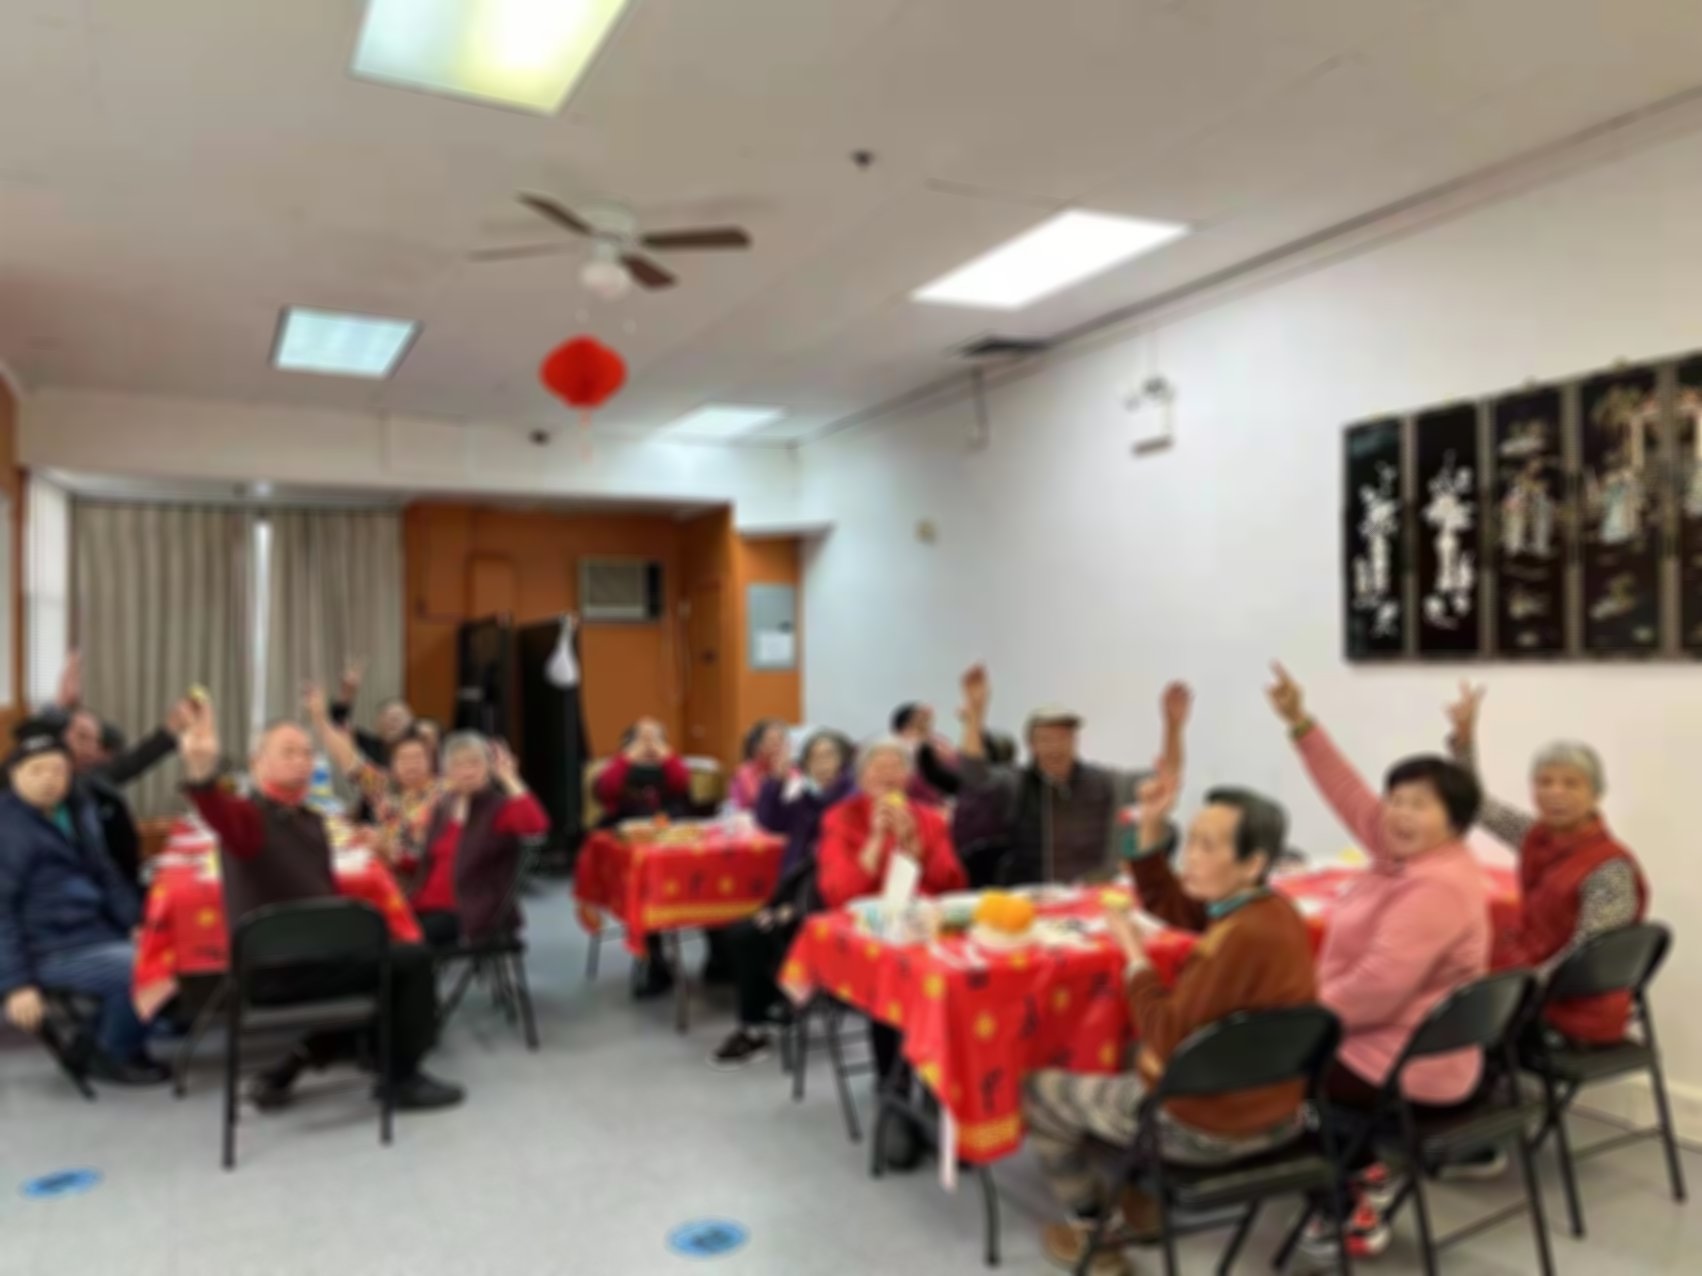
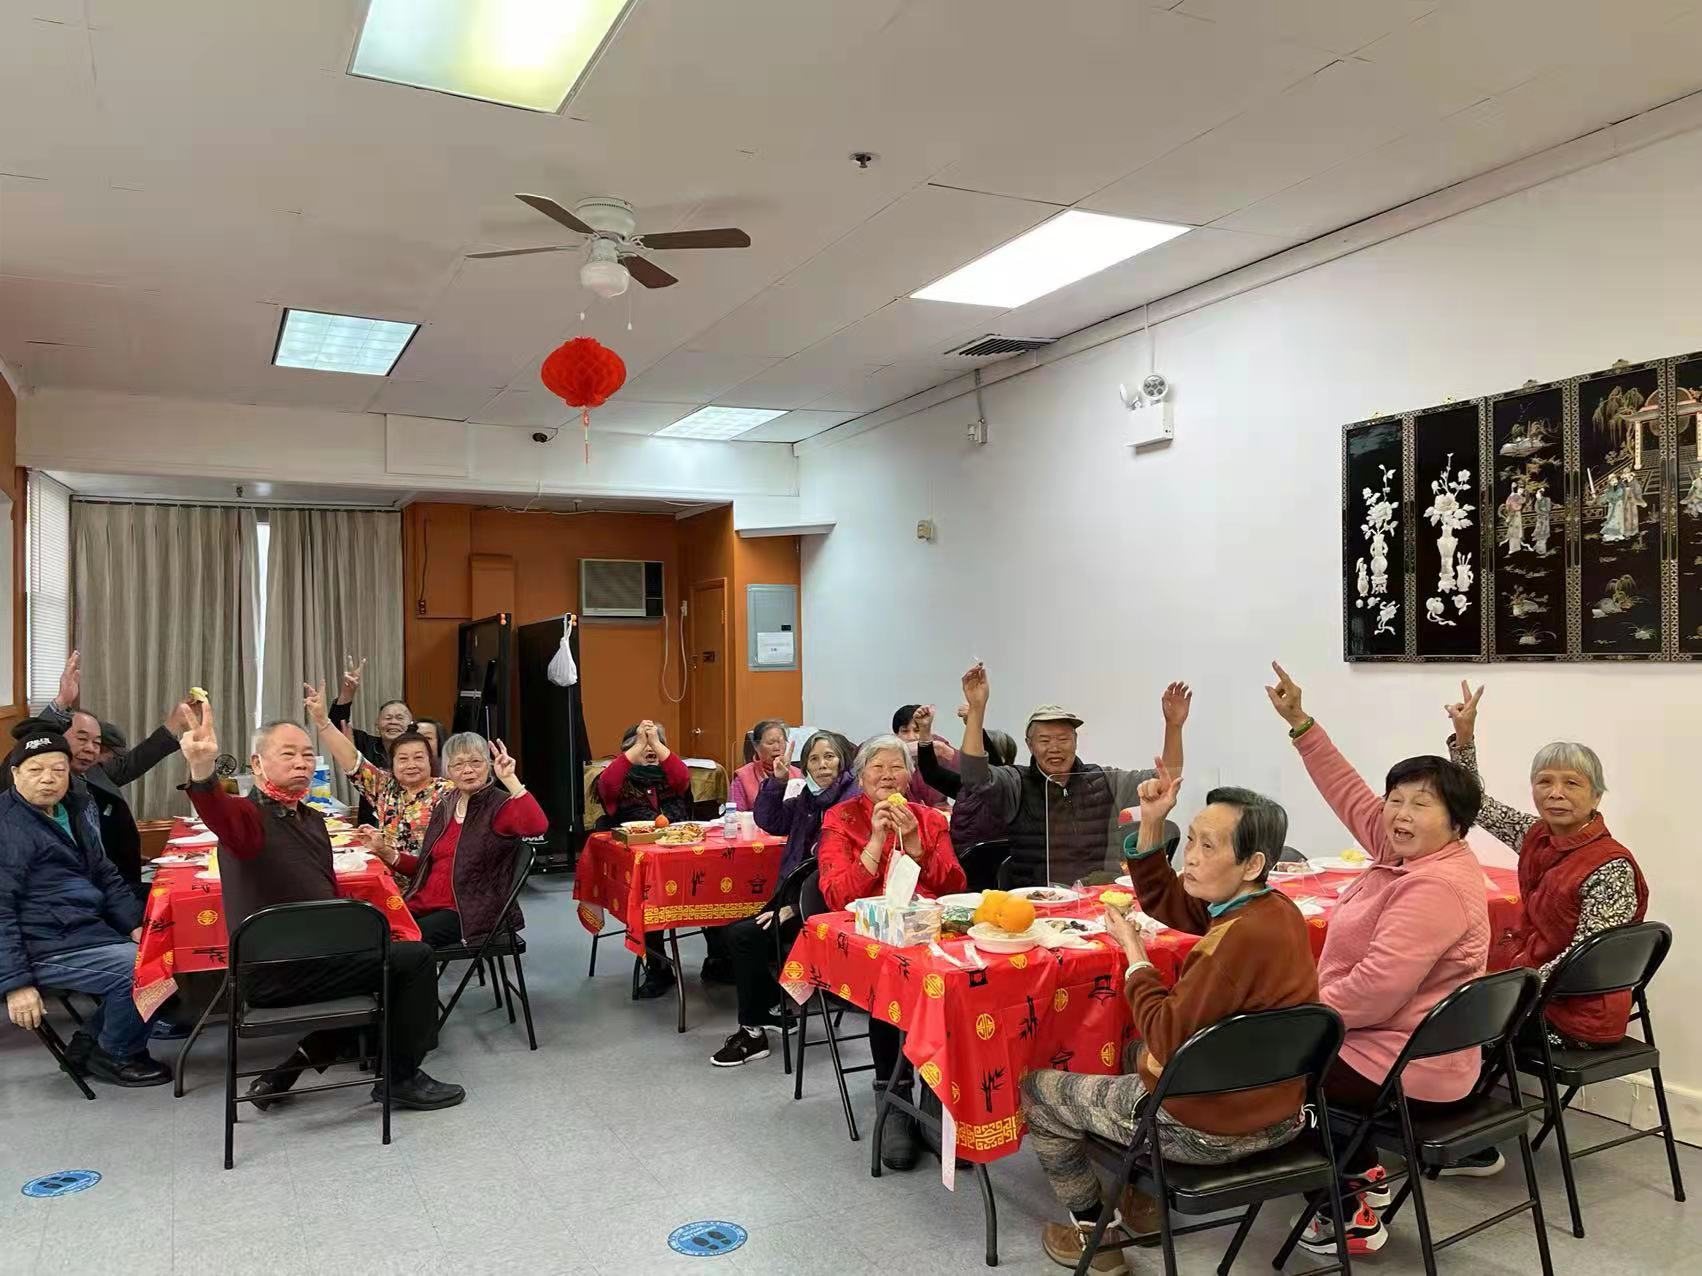
Updated index.html

diff --git a/happyseniordaycare/index.html b/happyseniordaycare/index.html
@@ -244,7 +244,7 @@
 						<div class="space"></div>
 						<div class="row">
 							<div class="col-md-6">
-								<img src="images/section-image-1.png" alt="">
+								<img src="images/section-image-1.png" alt="" class="blurred-image">
 								<div class="space"></div>
 							</div>
 							<div class="col-md-6">
@@ -274,7 +274,7 @@
 								<p>Everyone here at Happy Senior Daycare Center has hidden talents, and we can't wait to see yours!</p>
 							</div>
 							<div class="col-md-6">
-								<img src="images/xiangqi.jpg" alt="">
+								<img src="images/xiangqi.jpg" alt="" class="blurred-image">
 								<div class="space"></div>
 							</div>
 						</div>
@@ -313,7 +313,7 @@
 							<div class="col-sm-6 col-md-3 isotope-item web-design">
 								<div class="image-box">
 									<div class="overlay-container">
-										<img src="images/portfolio-1.jpg" alt="">
+										<img src="images/portfolio-1.jpg" alt="" class="blurred-image">
 										<a class="overlay" data-toggle="modal" data-target="#project-1">
 											<i class="fa fa-search-plus"></i>
 											 
@@ -349,7 +349,7 @@
 							<div class="col-sm-6 col-md-3 isotope-item app-development">
 								<div class="image-box">
 									<div class="overlay-container">
-										<img src="images/portfolio-2.jpg" alt="">
+										<img src="images/portfolio-2.jpg" alt="" class="blurred-image">
 										<a class="overlay" data-toggle="modal" data-target="#project-2">
 											<i class="fa fa-search-plus"></i>
 											 
@@ -385,7 +385,7 @@
 							<div class="col-sm-6 col-md-3 isotope-item web-design">
 								<div class="image-box">
 									<div class="overlay-container">
-										<img src="images/portfolio-3.jpg" alt="">
+										<img src="images/portfolio-3.jpg" alt="" class="blurred-image">
 										<a class="overlay" data-toggle="modal" data-target="#project-3">
 											<i class="fa fa-search-plus"></i> 
 										</a>
@@ -420,7 +420,7 @@
 							<div class="col-sm-6 col-md-3 isotope-item mobile-apps">
 								<div class="image-box">
 									<div class="overlay-container">
-										<img src="images/portfolio-4.jpg" alt="">
+										<img src="images/portfolio-4.jpg" alt="" class="blurred-image">
 										<a class="overlay" data-toggle="modal" data-target="#project-4">
 											<i class="fa fa-search-plus"></i> 
 										</a>
@@ -455,7 +455,7 @@
 							<div class="col-sm-6 col-md-3 isotope-item app-development">
 								<div class="image-box">
 									<div class="overlay-container">
-										<img src="images/portfolio-5.jpg" alt="">
+										<img src="images/portfolio-5.jpg" alt="" class="blurred-image">
 										<a class="overlay" data-toggle="modal" data-target="#project-5">
 											<i class="fa fa-search-plus"></i> 
 										</a>
@@ -490,7 +490,7 @@
 							<div class="col-sm-6 col-md-3 isotope-item web-design">
 								<div class="image-box">
 									<div class="overlay-container">
-										<img src="images/portfolio-6.jpg" alt="">
+										<img src="images/portfolio-6.jpg" alt="" class="blurred-image">
 										<a class="overlay" data-toggle="modal" data-target="#project-6">
 											<i class="fa fa-search-plus"></i> 
 										</a>
@@ -525,7 +525,7 @@
 							<div class="col-sm-6 col-md-3 isotope-item mobile-apps">
 								<div class="image-box">
 									<div class="overlay-container">
-										<img src="images/portfolio-7.jpg" alt="">
+										<img src="images/portfolio-7.jpg" alt="" class="blurred-image">
 										<a class="overlay" data-toggle="modal" data-target="#project-7">
 											<i class="fa fa-search-plus"></i>
 										</a>
@@ -560,7 +560,7 @@
 							<div class="col-sm-6 col-md-3 isotope-item web-design">
 								<div class="image-box">
 									<div class="overlay-container">
-										<img src="images/portfolio-8.jpg" alt="">
+										<img src="images/portfolio-8.jpg" alt="" class="blurred-image">
 										<a class="overlay" data-toggle="modal" data-target="#project-8">
 											<i class="fa fa-search-plus"></i> 
 										</a>
@@ -595,7 +595,7 @@
 							<div class="col-sm-6 col-md-3 isotope-item web-design">
 								<div class="image-box">
 									<div class="overlay-container">
-										<img src="images/portfolio-9.jpg" alt="">
+										<img src="images/portfolio-9.jpg" alt="" class="blurred-image">
 										<a class="overlay" data-toggle="modal" data-target="#project-9">
 											<i class="fa fa-search-plus"></i> 
 										</a>
@@ -630,7 +630,7 @@
 							<div class="col-sm-6 col-md-3 isotope-item mobile-apps">
 								<div class="image-box">
 									<div class="overlay-container">
-										<img src="images/portfolio-10.jpg" alt="">
+										<img src="images/portfolio-10.jpg" alt="" class="blurred-image">
 										<a class="overlay" data-toggle="modal" data-target="#project-10">
 											<i class="fa fa-search-plus"></i> 
 										</a>
@@ -665,7 +665,7 @@
 							<div class="col-sm-6 col-md-3 isotope-item web-design">
 								<div class="image-box">
 									<div class="overlay-container">
-										<img src="images/portfolio-11.jpg" alt="">
+										<img src="images/portfolio-11.jpg" alt="" class="blurred-image">
 										<a class="overlay" data-toggle="modal" data-target="#project-11">
 											<i class="fa fa-search-plus"></i> 
 										</a>
@@ -700,7 +700,7 @@
 							<div class="col-sm-6 col-md-3 isotope-item app-development">
 								<div class="image-box">
 									<div class="overlay-container">
-										<img src="images/portfolio-12.jpg" alt="">
+										<img src="images/portfolio-12.jpg" alt="" class="blurred-image">
 										<a class="overlay" data-toggle="modal" data-target="#project-12">
 											<i class="fa fa-search-plus"></i> 
 										</a>

diff --git a/happyseniordaycare/css/style.css b/happyseniordaycare/css/style.css
@@ -891,3 +891,7 @@ border-radius: 50%;
 	-webkit-transform: scale(1);
 	transform: scale(1);
 }
+
+.blurred-image {
+	filter: blur(5px); /* Adjust the blur radius as needed */
+}
